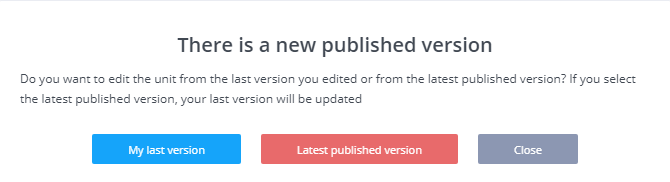
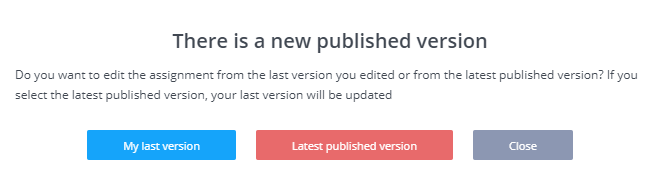
update and stack changes

diff --git a/docs/courses/coursemanagement.md b/docs/courses/coursemanagement.md
@@ -87,18 +87,26 @@ This describes the first time you create a new assignment.
 1. **Edit your assignment**. If your assignment is a project assignment, clicking the assignment will take you into the IDE, as with a Codio project, where you can work on your project.
 1. **Publish your assignment**. When you think your assignment is in good shape, it is ready to publish. A assignment is not available to the course until you publish. At this point a snapshot is taken of the assignment and it forms a part of the published course.
 
+It is recommended that you connect your assignments to a remote repo (GitHub/BitBucket etc) where you can push your work. As well as giving you full versioning control it also allows you to 
+
+- easily update assignments where you may use the same content in different courses as you cam make the changes in one assignment, push to the repo and then pull in the changes to the other assignemts to publish.
+
+- collaborate with colleagues who can create their own 'project' by importing from the repo and push their changes to the repo for review before they are pulled into the course assignment and published
+
+**Please note** the code workspace, other than the guides folder, is never updated as this can invalidate work for students who have already started the assignment. Any students who haven't started the assignment will see the updated content but for those that have already started the assignment they will not. 
+
+To enable students who have started the unit to see the new content, the assignment can be **Reset** (see [Actions Area Settings](/courses/classes/#actions-area-settings} for more information) but be aware that any existing work they may have done will be lost.
 
 
 You will iterate through the above process as you add more assignments to your course modules.
 
 
-### Updates   TODO
+### Updates
 Editing a assignment **does not affect published course content or content assigned to course**. This section describes how you can push your changes out to courses when you are ready.
 
 
 1. **More edits to a assignment**. After publishing, you may decide to make further changes. These changes do not form a part of the published course assignment until you republish, so you can edit without concern for altering published content.
 1. **Republish**. Having made more changes, you can publish the assignment again in order to make those changes available to the course. However, publishing does not update assignments previously assigned to a course.
-1. **Update course**. If you had assigned a course module to a course and subsequently updated and published a assignment within that module, then assignments within that module are not automatically updated in the course. You need to explicitly do this by going to the course. You should see a red [**Update Course** button](/classes/unitmanagement/upgradecourse). This allows you to selectively update assignments.
 
 
 
@@ -211,7 +219,7 @@ Please read the section [Assign a project to the course](/courses/classes/#assig
 
 
 ## Course access
-When a course is created all 'Teachers' in the course have admin access to the content.
+When a course is created all 'Teachers' in the course have admin access to the content and can edit the content
 
 
 ## Deleting courses and modules
@@ -299,27 +307,26 @@ Publishing the assignment takes a snapshot of the underlying project assignment 
 ![versions](/img/versions.png)
 
 
-### Describe changes TODO
+### Describe changes
 
 You should enter a brief description of the changes you made since the last publish of the assignment. You can see the version history on the  [versions screen](/courses/classes/#managing-assignments).
 
 
-### No stack modifications or you switched stack
+### Stack modifications or you switched stack
 If, in your project assignment, you have
 
 - only made changes to the code workspace (the workspace is the contents of the file tree in the IDE or `/home/codio/workspace`)
 - or you switched stack but did not make any stack modifications since switching,
 
 then you should
-
+TODO
 1. Enter the changelog text, which is a description of the changes made since the last publish.
-1. Press the **Stack unchanged** button.
 1. Press the **Publish assignment** button when ready.
 
 ![versions](/img/stack_notmodified.png)
 
 ### Stack modifications
-If you have made any changes to the project's stack then you should press the **Stack modified** button. Please be aware that changes to the stack can be made indirectly by applications as well as manual file changes. For example, if you modified a database's contents that is not configured to live in the workspace area then these count as stack changes.
+If you have made any changes to the project's stack then you should press the **Stack** button where you can then change the stack or check/confirm that **Use the latest version** is selected. Please be aware that changes to the stack can be made indirectly by applications as well as manual file changes. For example, if you modified a database's contents that is not configured to live in the workspace area then these count as stack changes.
 
 ![versions](/img/stack_modified.png)
 
@@ -328,12 +335,10 @@ You should now decide whether you want to
 - create a new version of the stack used by the assignment
 - create a brand new stack for this assignment.
 
+Go to **Project>Stack>Create New** where you can create a new version of the current stack or create a new stack. The new stack version will appear in your stacks listing in the normal way.
+
 ### Stack modified : New Stack Version
 Note that if the stack you are using is not owned by you or you don't have permissions to modify the stack, then you will not be able to select this option.
-
-You should enter a description of the stack changes made and then press **Publish assignment**. The new stack version will appear in your stacks listing in the normal way.
-
-![versions](/img/stack_newversion.png)
 
 ### Stack modified: New Stack
 If you do not have permissions to create a new stack version or you want to create a new stack that this and potentially other assignments should use, then select this option.
@@ -342,16 +347,15 @@ This will create a new stack with the permissions you specify. To give access on
 
 It will take a few minutes to prepare the stack, so please be patient. Once it is created, it will be visible your stacks listing.
 
-You should **not** create a new stack for each assignment in your course without good reason. You should instead, create a stack and then point all other assignments that share this stack configuration to point to the new stack.
+You should **not** create a new stack for each assignment in your course without good reason. You should instead, create a stack and then point all other assignments that share this stack configuration to point to the new stack. If you select **Use the latest version** for all the assignments, as you make changes to the stack and update it, all the assignments will use that updated stack and you will not have to manually review/update each assignment
 
 If you have differing configurations then create one single stack for a given configuration and then point assignments that use that configuration to the new stack.
 
-![versions](/img/stack_newstack.png)
 
 ### IMPORTANT: Switching a assignment's stack
-Let's say you have one or more assignments and you decide to change the stack that they point to. You can switch the stack either from within the IDE (**Project->Stack settings**) or from the assignments listing (press **Stack** icon).
+Let's say you have one or more assignments and you decide to change the stack that they point to. You can switch the stack either from within the IDE (**Project->Stack>settings**) or from the assignments listing (press **Stack** icon).
 
-Once this has been done, you need to publish your assignment again to reflect this change. Having switched stack, you should select **Stack not modified** and then press **Publish assignment**.
+Once this has been done, you need to go to the **Stack** button to reflect this change. 
 
 ## Editing an existing assignment
 ### Editing a book assignment
@@ -375,11 +379,22 @@ If there is a later version of the assignment that has been published since you 
 
 
 
-## Collaborating on project assignments TODO
-Other teachers in the course are able to collaborate on course assignments. 
+## Collaborating on project assignments
+
+It is recommended that you connect your assignments to a remote repo (GitHub/BitBucket etc) where you can push your work. As well as giving you full versioning control it also allows you to 
+
+- easily update assignments where you may use the same content in different courses as you cam make the changes in one assignment, push to the repo and then pull in the changes to the other assignemts to publish.
+
+- collaborate with colleagues who can create their own 'project' by importing from the repo and push their changes to the repo for review before they are pulled into the course assignment and published
+
+**Please note** the code workspace, other than the guides folder, is never updated as this can invalidate work for students who have already started the assignment. Any students who haven't started the assignment will see the updated content but for those that have already started the assignment they will not. 
+
+To enable students who have started the unit to see the new content, the assignment can be **Reset** (see [Actions Area Settings](/courses/classes/#actions-area-settings} for more information) but be aware that any existing work they may have done will be lost.
+
+Other teachers in the course can then collaborate on course assignments by creating their own project in their **My Projects** area and push their changes to the remote repo for review prior to pulling into the course assignment and then publishing the new version
 
 
-The rules for other users to edit a project assignment in a course are as follows.
+The module assignments can be edited by others directly if required. The rules for other users to edit a project assignment in a course are as follows.
 
 - **Private** - only you can edit the project assignment.
 - **Private but organization is the owner** - any teacher in your organization can edit.
@@ -392,7 +407,7 @@ The ability to create public courses/modules can be enabled for the organization
 ![authtoken](/img/manage_organization/public_private.png)
 
 
-If you want 2 or more people to collaborate on a project assignment, you need to understand how Codio manages this process.
+If you want 2 or more people to collaborate on a project assignment directly, you need to understand how Codio manages this process.
 
 The key thing you need to realize is that unless you are familiar with Git, **only one user should make changes at a time**. If User A and User B want to collaborate, then they need to inform each other when they are working on the content. If they fail to do so, then one person will have to surrender their changes later on.
 

diff --git a/docs/courses/classes.md b/docs/courses/classes.md
@@ -407,32 +407,29 @@ You can also remove individual assignments from a module, clicking the **Delete*
 **Warning**
 Deleting a module or assignment from your course also removes all student data for all the assignments in the module (including assessment data and results) and cannot be restored so you may wish to [Download CSV](/courses/grading/#download-csv-summary) before removing the module or assignment.
 
-## Update course
+## Updating courses 
 
-**TODO**
-Where you are using content in multiple courses and changes are made to that content, these changes will be detected and you can upgrade the content of the other courses to the latest version from the **Update Course** button. The code workspace, other than the guides folder, is never updated as this can invalidate work for students who have already started the assignment.
+### Updating assignment content
 
-![Update Course](/img/class_administration/upgradecourse.png)
+It is recommended that you connect your assignments to a remote repo (GitHub/BitBucket etc) where you can push your work. As well as giving you full versioning control it also allows you to 
 
-Updates may be new assignments added to the course, a new version of the stack, updates for assessments in a guide or book, changes to the general guide content or a change in the order of assignments in the course.
+- easily update assignments where you may use the same content in different courses as you cam make the changes in one assignment, push to the repo and then pull in the changes to the other assignemts to publish.
+
+- collaborate with colleagues who can create their own 'project' by importing from the repo and push their changes to the repo for review before they are pulled into the course assignment and published
+
+**Please note** the code workspace, other than the guides folder, is never updated as this can invalidate work for students who have already started the assignment. Any students who haven't started the assignment will see the updated content but for those that have already started the assignment they will not. 
+
+To enable students who have started the unit to see the new content, the assignment can be **Reset** (see [Actions Area Settings](/courses/classes/#actions-area-settings} for more information) but be aware that any existing work they may have done will be lost.
+
+
+### Updating Stack 
+If changes to the stack used in the unit are required, when completed (and tested) remember to update your stack before publishing. Either create a new version of the stack if you have permissions or create a new stack. See [Modifying a stack](/project/stacks/#modifying-a-stack) for more information.
+
+If the changes are only to the stack, when created you can go to the stack area for the assignment when in edit mode and change the stack details. See [Managing assignments](courses/classes/#managing-assignments) for more information
 
 Most assessment changes can be safely upgraded but if you have altered the structure of a question (for example multiple choice changed from single response to multiple response) then student response data can be invalidated.
 
-![Upgrade Stack](/img/class_administration/upgradecoursedialog.png)
-
 Any changes to guides content can be applied. You should be careful about making major structural changes as students who have already started the assignment could be confused. The code workspace folder will not be impacted, so any student work in this folder will not be impacted.
-
-### Select assignments to update
-A list of all modified assignments will be shown. You can select the assignments you wish to update. The **Update Course** button will no longer be shown if updates have already been applied.
-
-### Stack updates
-If updates to the stack are detected and students have already started the assignment(s) you can elect to update the stack as well as the guides content by pressing the **Update Content and Stack** button.
-
-![Update Stack](/img/class_administration/stackupdate.png)
-
-However, **any data outside the code workspace folder will be lost for all students who have already started the assignment**.
-
-If there are no detected updates to the stack or no students have started the assignment(s), this option will not be shown.
 
 
 ## Test students
@@ -488,23 +485,23 @@ On the module assignment screen you can manage the following settings
 ![assignmentscreen](/img/class_administration/modulesettings.png)
 
 1. Change the name of the assigment
-1. See if an assignment is in DRAFT mode, and therefore not visible to students in the course
-1. Publish the assignment. This is required before students will be able to see the assignment and also if you have need to update the assignment those changes will not be visible to students until it is published again
-1. View the version history of the assigment publications, This allows you to view the version history. You can see
+2. See if an assignment is in DRAFT mode, and therefore not visible to students in the course
+3. Publish the assignment. This is required before students will be able to see the assignment and also if you have need to update the assignment those changes will not be visible to students until it is published again
+4. View the version history of the assigment publications, This allows you to view the version history. You can see
     - date/time when the assignment was published,
     - name of the person who published the assignment,
     - the name and version of the stack assigned to the assignment.
 
 ![versions](/img/versiondetails.png)
 
-1. View (and change) the stack settings for the assignment. This option is only available for project assignments. It allows you to switch the stack used by a assignment. If a stack is set to **Use latest version** then
+5. View (and change) the stack settings for the assignment. This option is only available for project assignments. It allows you to switch the stack used by a assignment. If a stack is set to **Use latest version** then
     - when a assignment has been assigned to a course, any student who has not yet started the assignment will use the latest version of the stack.
     - the assignment itself will remain on whatever stack version was last assigned. If you want to change it to the latest created stack version then you should click the **Save Changes** button to update it.
-1. Delete the individual assignment from the module. You are required to enter a confirmation code to proceed and you can then do one of the following
+6. Delete the individual assignment from the module. You are required to enter a confirmation code to proceed and you can then do one of the following
     - Select **Convert content to a project** to delete the assignment and save the assignment contents to your projects list.
     - Select **Delete content** to delete the assignment and its content entirely.
-1. Delete the entire module. You are required to enter a confirmation code to proceed
-1. Reorder the modules in the course. 
+7. Delete the entire module. You are required to enter a confirmation code to proceed
+8. Reorder the modules in the course. 
 
 You can also change the order of the assignments within a module by dragging an assignment into its desired position in the list.
 
@@ -550,7 +547,7 @@ For book based assignments, you should be aware that if another assignment gives
 #### Visibility on completed
 You can specify the students ability to access the assignment when completed. **Not available for book based assignments**
 
-- 'None' will allow students to continue to access and work in code files, any assessments in the assignment can be seen but not changed,
+- 'None' will allow students to continue to access and work in code files, any assessments in the assignment can be seen but not changed. When set to 'None', students will be able to change the status of their assignment from completed to not completed.
 - 'Read-Only' will allow students to access their assignment but not make any changes.
 - 'No Access' will not allow the students to access their assignment.
 
@@ -726,7 +723,7 @@ From the **Actions** area of the assignment, you can regrade all students that h
 
 We provide a way of testing autograding scripts when authoring your project. This is described below. You should make use of this before publishing your project to a course.
 
-You should be aware that once the assignment has been published to the course, any changes made to the assignment's source project are not automatically reflected in the published assignment. As a result, if you include your main grading logic within the project itself and if that script has bugs, you will not be able to fix the bugs without deleting the assignment, fixing the bug and finally republishing the assignment. All student data will be lost as a result. However, if all your scripts are stored in `.guides/secure` folder, you can update and test them and you can then **TODO**[Update assignment](/classes/unitmanagement/settings-info/updateunit/)
+You should be aware that once the assignment has been published to the course, any changes made to the assignment's source project are not automatically reflected in the published assignment. As a result, if you include your main grading logic within the project itself and if that script has bugs, you will not be able to fix the bugs without deleting the assignment, fixing the bug and finally republishing the assignment. All student data will be lost as a result. However, if all your scripts are stored in `.guides/secure` folder, you can update and test them and you can then publish the new version.
 
 Another strategy is to use a simple bootstrap launcher that loads and executes the script from a remote location that you can edit and debug independently of the Codio box.
 
@@ -861,7 +858,7 @@ This allows you to download a CSV file with student grade data for the assignmen
 
 **This option will destroy all student work.**
 
-In the event that an assignment in your course is updated and, for some reason, you cannot use the **TODO**[Update course](/classes/unitmanagement/upgradecourse) option, you can reset it so **all** students, including those who have already started the assignment, are updated with the new assignment.
+In the event that an assignment in your course is updated you can reset it so **all** students, including those who have already started the assignment, are updated with the new assignment.
 
 You can reset the assignment for all your students by selecting either
 
